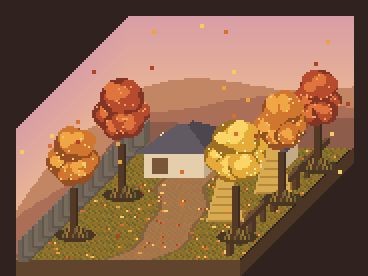
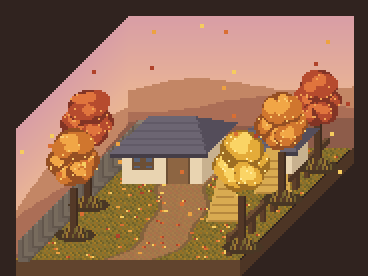
Autumn scene: house redrawn after user sketch (wide overhanging hip roof, window, door)
Claude-Session: https://claude.ai/code/session_01FPZSaKiVNU2zED737yZX4w

Changed region(s): [[0.1196, 0.2609, 0.8668, 0.9275], [0.6576, 0.3478, 0.6875, 0.3768], [0.5082, 0.7536, 0.538, 0.7826]]

diff --git a/tools/render_autumn.py b/tools/render_autumn.py
@@ -79,16 +79,29 @@ def build():
     for d in range(6, D - 8, 11): sc.box(W - 10, d, 2, 2, 10, (98, 68, 44), (80, 54, 36), (62, 42, 30)); 
     sc.box(W - 10, 6, 2, D - 14, 1.6, (98, 68, 44), (80, 54, 36), (62, 42, 30), z0=7)
     def house(x, d, w, dp, h):
+        """스케치 그대로: 정면(창+문) 벽, 오른쪽 옆벽, 처마가 벽 밖으로 길게 나온 네모 지붕(앞면은 사다리꼴, 오른쪽은 모임지붕)."""
         def f():
-            sc.box(x, d, w, dp, h, (236, 220, 190), (226, 208, 176), (190, 170, 140)); rh = 9
-            sc.poly([(x - 3, d - 2, h), (x + w + 3, d - 2, h), (x + w + 3, d - 2, h + 1), (x - 3, d - 2, h + 1)], (72, 70, 84))
-            sc.poly([(x - 3, d - 2, h), (x + w + 3, d - 2, h), (x + w / 2 + 3, d + dp / 2, h + rh), (x + w / 2 - 3, d + dp / 2, h + rh)], (84, 82, 98))
-            sc.poly([(x + w + 3, d - 2, h), (x + w + 3, d + dp + 2, h), (x + w / 2 + 3, d + dp / 2 + 3, h + rh), (x + w / 2 + 3, d + dp / 2, h + rh)], (62, 60, 76))
-            sc.poly([(x + 4, d, 2), (x + 11, d, 2), (x + 11, d, h - 4), (x + 4, d, h - 4)], (110, 78, 52))
+            sc.box(x, d, w, dp, h, (236, 220, 190), (232, 214, 182), (196, 176, 146))
+            o, o2, rh, dm = 4, w * .2, h * .75, d + dp / 2
+            # 창(4칸)과 문
+            wx0, wx1, wz0, wz1 = x + w * .12, x + w * .38, h * .42, h * .82
+            sc.poly([(wx0, d, wz0), (wx1, d, wz0), (wx1, d, wz1), (wx0, d, wz1)], (96, 70, 48))
+            sc.poly([(wx0 + 1, d, wz0 + 1), (wx1 - 1, d, wz0 + 1), (wx1 - 1, d, wz1 - 1), (wx0 + 1, d, wz1 - 1)], (74, 90, 120))
+            mx, mz = (wx0 + wx1) / 2, (wz0 + wz1) / 2
+            sc.poly([(mx - .5, d, wz0), (mx + .5, d, wz0), (mx + .5, d, wz1), (mx - .5, d, wz1)], (96, 70, 48)); sc.poly([(wx0, d, mz - .5), (wx1, d, mz - .5), (wx1, d, mz + .5), (wx0, d, mz + .5)], (96, 70, 48))
+            dx0, dx1, dz1 = x + w * .58, x + w * .8, h * .72
+            sc.poly([(dx0 - 1, d, 0), (dx1 + 1, d, 0), (dx1 + 1, d, dz1 + 1), (dx0 - 1, d, dz1 + 1)], (96, 70, 48)); sc.poly([(dx0, d, 0), (dx1, d, 0), (dx1, d, dz1), (dx0, d, dz1)], (132, 94, 62))
+            # 지붕: 처마 아래 그늘 띠 -> 앞 사다리꼴 -> 오른쪽 모임면
+            sc.poly([(x - o, d - o, h - 1), (x + w + o, d - o, h - 1), (x + w + o, d - o, h + 1), (x - o, d - o, h + 1)], (52, 50, 66))
+            sc.poly([(x - o, d - o, h + 1), (x + w + o, d - o, h + 1), (x + w - o2, dm, h + rh), (x + o2, dm, h + rh)], (96, 94, 114))
+            sc.poly([(x + w + o, d - o, h + 1), (x + w + o, d + dp + o, h + 1), (x + w - o2, dm, h + rh)], (70, 68, 88))
+            for k in range(1, 5):                                                                                       # 기와 줄
+                z = h + 1 + (rh - 1) * k / 5; ax = (x - o) + (o + o2) * k / 5; bx = (x + w + o) - (o + o2) * k / 5; dd = d - o + (dm - d + o) * k / 5
+                sc.d.line([sc.P(ax, dd, z), sc.P(bx, dd, z)], fill=(84, 82, 102))
         sc.jobs.append((d, f))
-    house(22, D - 28, 30, 18, 13); house(62, D - 22, 26, 14, 11)
+    house(14, D - 34, 40, 22, 16); house(66, D - 24, 28, 14, 12)
     # 나무: 단풍(주황·빨강)·은행(노랑)·감나무
-    for x, d, h, k, sp in ((16, 26, 42, 'orange', 11), (20, 66, 46, 'red', 12), (98, 24, 46, 'gold', 13), (102, 62, 42, 'orange', 11), (104, 94, 38, 'red', 10)):
+    for x, d, h, k, sp in ((16, 26, 42, 'orange', 11), (8, 56, 46, 'red', 11), (106, 14, 46, 'gold', 12), (102, 62, 42, 'orange', 11), (104, 94, 38, 'red', 10)):
         tree(sc, x, d, h, k, rng, sp)
     sc.run()
     # 감나무의 감(주황 점)과 떨어지는 낙엽(공중)
